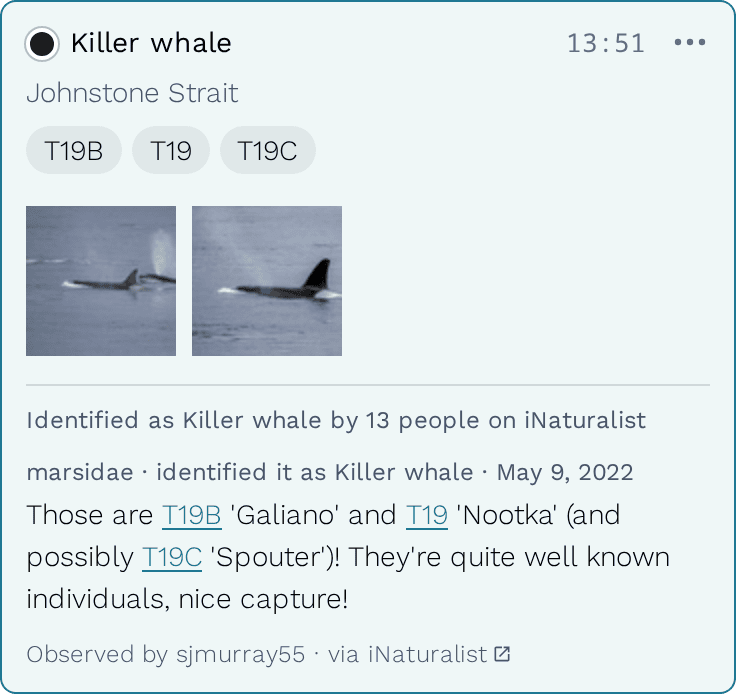
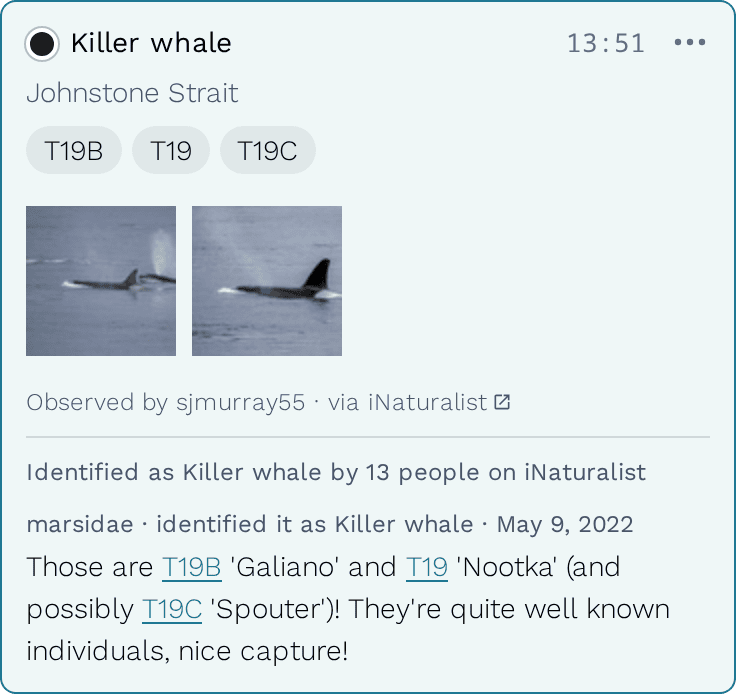
What people said on iNaturalist comes after who observed it, at the card's foot (salish-065b)
Peter: under the photos, the comments read as part of the observer's
report. The card now finishes with the observation, down to "Observed by
… via iNaturalist", before turning to them.

Changed region(s): [[0.0312, 0.7241, 0.9062, 0.9655], [0.0312, 0.5431, 0.9062, 0.6336], [0.0312, 0.6638, 0.875, 0.694]]

diff --git a/src/obs-summary.ts b/src/obs-summary.ts
@@ -263,8 +263,8 @@ export class ObsSummary extends LitElement {
       margin: 1rem 0 0 0;
       padding: 0;
     }
-    /* What people said on an iNaturalist observation (decision 107), under its photos and
-       a hairline: the identifications' tally and each author line in the grey caption of
+    /* What people said on an iNaturalist observation (decision 107), after the card has
+       finished with the observation itself, down to who observed it, and a hairline: the identifications' tally and each author line in the grey caption of
        the card's other secondary lines, Regular because they are read letter by letter
        (rule 5); what each person wrote in the Light of the report's own text. */
     section.activity {
@@ -445,13 +445,14 @@ export class ObsSummary extends LitElement {
           `)
         }</ul>`
       : undefined}
-      ${this.renderActivity()}
       ${this.renderProvenance()}
+      ${this.renderActivity()}
     `
   }
 
   /**
-   * What people said on an iNaturalist observation (decision 107): how many identified it
+   * What people said on an iNaturalist observation (decision 107), after the observation
+   * itself and who observed it: how many identified it
    * as what, then each comment and each identification's remark, credited to its author
    * and dated, its codes linked as a report's are. A curator weighs a sighting by these.
    */

diff --git a/docs/decisions/106-a-comment-can-name-the-animal-a-sighting-was.md b/docs/decisions/106-a-comment-can-name-the-animal-a-sighting-was.md
@@ -2,7 +2,7 @@
 
 **Status:** accepted · **Amended:** 2026-11-02 by [107](107-a-sightings-card-shows-what-people-said-on-inaturalist.md) · **Decided:** 2026-10-12 by Peter (that reading a comment for an animal is not republishing it, bd `salish-4s42`); 2026-11-02 by Peter (that it be built, and that deleted accounts' remarks are not used, [081](081-what-inaturalist-takes-down-we-take-down.md)); the details below were settled while building it, 2026-11-02 · **Work:** bd `salish-4s42` · **Builds on:** [105](105-the-build-and-the-browser-read-sighting-text-with-one-reader.md) (the reader), [075](075-an-inaturalist-observation-is-evidence-and-identifications.md) (an observation is its evidence and its identifications), [rights-policy §5.5](../rights-policy.md#55-inaturalist-identifications-and-comments-are-mirrored-not-published-d-23)
 
-*Amended 2026-11-02 ([107](107-a-sightings-card-shows-what-people-said-on-inaturalist.md)):* a visitor now sees the comments and the remarks themselves, credited to their authors, on the sighting's card, after a rights pass on rights-policy §5.5. The chips stay as this record describes them, unmarked; the comments under the photos are where a reader sees who named an animal. What this record says about never showing the remark or its author describes the arrangement before 107.
+*Amended 2026-11-02 ([107](107-a-sightings-card-shows-what-people-said-on-inaturalist.md)):* a visitor now sees the comments and the remarks themselves, credited to their authors, on the sighting's card, after a rights pass on rights-policy §5.5. The chips stay as this record describes them, unmarked; the comments at the card's foot are where a reader sees who named an animal. What this record says about never showing the remark or its author describes the arrangement before 107.
 
 ## Context
 
@@ -26,9 +26,9 @@ Over a copy of production on 2026-11-02, iNaturalist's observations carry 7,123 
 
 The Darwin Core archive is unaffected: it leaves out every iNaturalist record (rights-policy §5.1).
 
-**Each code records where it was read, and whether the observer wrote it.** The occurrence's `identifier_origins` lists, for each of its identifiers in order, `report` for the occurrence's own text, or `comment` or `identification` with that remark's iNaturalist id, and `by_observer`. The identifier candidates carry them as `origin`, `origin_id` and `by_observer`. A comment is the observer's when its author's login is the observer's; an identification says so itself. A code that several remarks name is taken from the observer's own remarks first, then from comments before identifications, each in the order iNaturalist numbered them. This lets the confidence [075](075-an-inaturalist-observation-is-evidence-and-identifications.md) leaves open weigh someone else's word apart from the observer's. Nothing weighs it yet. A chip read from a comment looks like one the observer wrote; the comment itself, shown under the photos since [107](107-a-sightings-card-shows-what-people-said-on-inaturalist.md), is where a reader sees who named the animal. ~~Nothing a visitor sees shows it yet: a chip read from a comment looks like one the observer wrote, until bd `salish-065b` shows on the card where each came from.~~
+**Each code records where it was read, and whether the observer wrote it.** The occurrence's `identifier_origins` lists, for each of its identifiers in order, `report` for the occurrence's own text, or `comment` or `identification` with that remark's iNaturalist id, and `by_observer`. The identifier candidates carry them as `origin`, `origin_id` and `by_observer`. A comment is the observer's when its author's login is the observer's; an identification says so itself. A code that several remarks name is taken from the observer's own remarks first, then from comments before identifications, each in the order iNaturalist numbered them. This lets the confidence [075](075-an-inaturalist-observation-is-evidence-and-identifications.md) leaves open weigh someone else's word apart from the observer's. Nothing weighs it yet. A chip read from a comment looks like one the observer wrote; the comment itself, shown at the card's foot since [107](107-a-sightings-card-shows-what-people-said-on-inaturalist.md), is where a reader sees who named the animal. ~~Nothing a visitor sees shows it yet: a chip read from a comment looks like one the observer wrote, until bd `salish-065b` shows on the card where each came from.~~
 
-**A visitor sees the code on the chips, and since [107](107-a-sightings-card-shows-what-people-said-on-inaturalist.md) the remark itself, credited, under the card's photos.** ~~A visitor sees the code, never the remark or who wrote it.~~ Peter ruled on 2026-10-12 that reading an animal out of a comment is not republishing the comment ([rights-policy §5.5](../rights-policy.md#55-inaturalist-identifications-and-comments-are-mirrored-not-published-d-23)). ~~Showing the words, or crediting their author, still needs its own rights review.~~ The rights pass for showing them is 107's.
+**A visitor sees the code on the chips, and since [107](107-a-sightings-card-shows-what-people-said-on-inaturalist.md) the remark itself, credited, at the card's foot.** ~~A visitor sees the code, never the remark or who wrote it.~~ Peter ruled on 2026-10-12 that reading an animal out of a comment is not republishing the comment ([rights-policy §5.5](../rights-policy.md#55-inaturalist-identifications-and-comments-are-mirrored-not-published-d-23)). ~~Showing the words, or crediting their author, still needs its own rights review.~~ The rights pass for showing them is 107's.
 
 How it is built: [`derive/readings.ts`](../../scripts/read-path/derive/readings.ts) writes `memory.remark_claims`, one row per remark that names something, beside 105's `memory.reading`. 105's table stays the reading of the observation's own text, so each code keeps where it was read. The iNaturalist view in [`derive/occurrences.sql`](../../scripts/read-path/derive/occurrences.sql) adds the remarks' codes and pods to the observer's, and writes `identifier_origins` beside them as a column of `build.occurrences` that the document leaves out. [`derive/identifier-candidates.sql`](../../scripts/read-path/derive/identifier-candidates.sql) reads the two lists side by side. The Stelis graph declares `inaturalist_mirror.comments` as an input of the occurrences, so a comment that reaches the mirror re-derives iNaturalist's observations. A new comment doesn't always reach it at once: iNaturalist moves an observation's `updated_at` for a new identification but not always for a comment (130 of the 7,126 comments in the mirror are newer than their observation's `updated_at`), and the ingest's sweep follows `updated_at`. Such a comment arrives when its observation is next fetched for another reason: within a run for one seen in the last ten days, otherwise when the monthly anti-entropy sweep reaches its dates.
 

diff --git a/docs/decisions/107-a-sightings-card-shows-what-people-said-on-inaturalist.md b/docs/decisions/107-a-sightings-card-shows-what-people-said-on-inaturalist.md
@@ -10,15 +10,15 @@ Peter, 2026-11-02: "The intention is that users, especially curators, but perhap
 
 ## Decision
 
-**An iNaturalist sighting's card shows what people said about it, under its photos.**
+**An iNaturalist sighting's card shows what people said about it, at its foot, after the observation itself: below the line saying who observed it and through whom.** The card finishes with the observation, its chips, text, photos and "Observed by … via iNaturalist", and then turns to what others said about it. Placed first under the photos, above that line, the comments read as part of the observer's report (Peter, reviewing the first version).
 
-![The card for iNaturalist observation 116194505: chips T19B, T19 and T19C; two photos; under a hairline, "Identified as Killer whale by 13 people on iNaturalist"; then "marsidae · identified it as Killer whale · May 9, 2022" over the remark "Those are T19B 'Galiano' and T19 'Nootka' (and possibly T19C 'Spouter')! They're quite well known individuals, nice capture!", its codes linked](images/107-card-activity.png)
+![The card for iNaturalist observation 116194505: chips T19B, T19 and T19C; two photos; "Observed by sjmurray55 · via iNaturalist"; under a hairline, "Identified as Killer whale by 13 people on iNaturalist"; then "marsidae · identified it as Killer whale · May 9, 2022" over the remark "Those are T19B 'Galiano' and T19 'Nootka' (and possibly T19C 'Spouter')! They're quite well known individuals, nice capture!", its codes linked](images/107-card-activity.png)
 
 - **Identifications without a remark are grouped by taxon**, as iNaturalist's own summaries do: "Identified as Killer whale by 13 people on iNaturalist". With several taxa: "Identified on iNaturalist as Killer whale by 12 people and Bigg's killer whale by 1 person". An observation carries about three identifications and almost none has a remark, so listing each one would make an iNaturalist sighting's document about a quarter larger and say little.
 - **Each comment, and each identification with a remark, is listed in full**, oldest first, under a line saying who wrote it and on what Pacific day, and for an identification what it identified the sighting as: "marsidae · identified it as Killer whale · May 9, 2022". The observer is named as such ("sjmurray55, the observer"), since their word on their own sighting weighs differently. The text is rendered as a report's is, with codes linked to the animals' pages.
 - **What stays out is what stays out of 106's reading:** a withdrawn identification, what iNaturalist's moderators hid, and anything written by an account iNaturalist has deleted ([081](081-what-inaturalist-takes-down-we-take-down.md)).
 - **It is shown inline,** not behind a click. Peter chose this over a one-line summary that opens. A sighting with any has one or two entries on average (3,485 over 2,385 sightings), and the busiest observation in the mirror has 26 comments.
-- **The chips are unchanged.** A chip read from a comment looks like one the observer wrote. The comment under the photos is where a reader sees who said it.
+- **The chips are unchanged.** A chip read from a comment looks like one the observer wrote. The comment at the card's foot is where a reader sees who said it.
 
 **The words come from the build's files, not from iNaturalist's API.** The build writes two keys into each document: `identified_as`, a list of taxa with how many people chose each, and `activity`, the comments and remarks with each one's kind, iNaturalist id, time, author, whether the observer wrote it, the taxon an identification names, and its text. Both are empty for every other source. A taxon is named as the sighting's own is: as iNaturalist now calls it ([032](032-retired-taxa-resolved-on-read.md)), by the register's common name where it has one, so iNaturalist's "Orca" reads "Killer whale". An author is credited as iNaturalist credits them, by display name, else by login. A card has them without another request. The mirror's rules apply to what it shows, as they do to the codes read from the same text, and when people come to weigh in on SalishSea.io itself (`salish-6122`), their claims can sit in the same list under the same rules. The rejected alternative is below.
 

diff --git a/docs/rights-policy.md b/docs/rights-policy.md
@@ -347,9 +347,9 @@ The build's iNaturalist mirror keeps each observation's identifications and comm
 
 **What is not stored:** the text of an identification or comment that iNaturalist's moderators have hidden; the row and its `hidden` flag are kept, so we know it existed, but not what iNaturalist took out of view. Nor iNaturalist's `category` (an identification's standing against the community taxon), a derived value 075 declines to adopt.
 
-**Reading an animal out of a comment is not republishing it.** Peter ruled so on 2026-10-12: a code someone names in a comment or an identification becomes one of the sighting's, shown on its card and linking it to the animal's profile page, as a code in the observer's description does ([decision 106](decisions/106-a-comment-can-name-the-animal-a-sighting-was.md)). ~~Visitors see the code, not the comment, and nothing says who named the animal.~~ Since decision 107 the card also shows the comment, credited, under its photos (below).
+**Reading an animal out of a comment is not republishing it.** Peter ruled so on 2026-10-12: a code someone names in a comment or an identification becomes one of the sighting's, shown on its card and linking it to the animal's profile page, as a code in the observer's description does ([decision 106](decisions/106-a-comment-can-name-the-animal-a-sighting-was.md)). ~~Visitors see the code, not the comment, and nothing says who named the animal.~~ Since decision 107 the card also shows the comment, credited, at its foot (below).
 
-**What the card shows ([decision 107](decisions/107-a-sightings-card-shows-what-people-said-on-inaturalist.md)).** Under the photos of an iNaturalist sighting: how many people identified it as each taxon, without their names; and each comment, and each identification with a remark, in full, under its author's name as iNaturalist credits them (display name, else login) and the day it was written. Not what the moderators hid, not a withdrawn identification, not what a deleted account wrote. The card's link to the observation on iNaturalist is the link to the original. Peter settled the license's two conditions on 2026-11-02: SalishSea.io is non-commercial (NC), and each comment is credited to its author (BY). Showing any of this anywhere else, on a profile page, a map label or in a download, would need its own pass.
+**What the card shows ([decision 107](decisions/107-a-sightings-card-shows-what-people-said-on-inaturalist.md)).** At the foot of an iNaturalist sighting's card, after who observed it: how many people identified it as each taxon, without their names; and each comment, and each identification with a remark, in full, under its author's name as iNaturalist credits them (display name, else login) and the day it was written. Not what the moderators hid, not a withdrawn identification, not what a deleted account wrote. The card's link to the observation on iNaturalist is the link to the original. Peter settled the license's two conditions on 2026-11-02: SalishSea.io is non-commercial (NC), and each comment is credited to its author (BY). Showing any of this anywhere else, on a profile page, a map label or in a download, would need its own pass.
 
 ---
 

diff --git a/docs/decisions/README.md b/docs/decisions/README.md
@@ -125,4 +125,4 @@ These don't belong here, and have homes of their own:
 | [104](104-the-dataset-is-cited-as-salishsea-io-at-its-datasetid.md) | The Darwin Core archive is cited as SalishSea.io's, with the day it was downloaded, at the `datasetID` every record carries, a w3id.org address (since 2026-11-02) that redirects to the archive's own page, which has a schema.org Dataset block for search engines; the About page links it | accepted |
 | [105](105-the-build-and-the-browser-read-sighting-text-with-one-reader.md) | The build and the browser read sighting text with one reader, `src/sighting-text.ts`, which replaces the regular expressions: each code the text names as present or absent with the reporter's certainty, the pods and the direction; the build writes its readings into a table the occurrence views join, the archive takes codes and direction from the occurrences, and a document gains `pods`; absent codes leave `identifiers` until `salish-uh38` stores them | accepted |
 | [106](106-a-comment-can-name-the-animal-a-sighting-was.md) | A code or pod someone names in a comment or a held identification on an iNaturalist observation joins the sighting's own `identifiers` and `pods`, after the observer's, so its card and the profile pages agree; a code the observer says was absent stays out, and direction stays the observer's; each code records where it was read (`report`, `comment` or `identification`); withdrawn, hidden and deleted accounts' remarks are not read; visitors never see the remark or its author (until 107) | accepted |
-| [107](107-a-sightings-card-shows-what-people-said-on-inaturalist.md) | An iNaturalist sighting's card shows, under its photos, how many people identified it as each taxon, and each comment and each identification's remark in full, credited to its author and dated, from the build's files; the chips stay as they are; SalishSea.io is non-commercial, which meets the comments' CC BY-NC (rights-policy §5.5 amended) | accepted |
+| [107](107-a-sightings-card-shows-what-people-said-on-inaturalist.md) | An iNaturalist sighting's card shows, at its foot after who observed it, how many people identified it as each taxon, and each comment and each identification's remark in full, credited to its author and dated, from the build's files; the chips stay as they are; SalishSea.io is non-commercial, which meets the comments' CC BY-NC (rights-policy §5.5 amended) | accepted |
